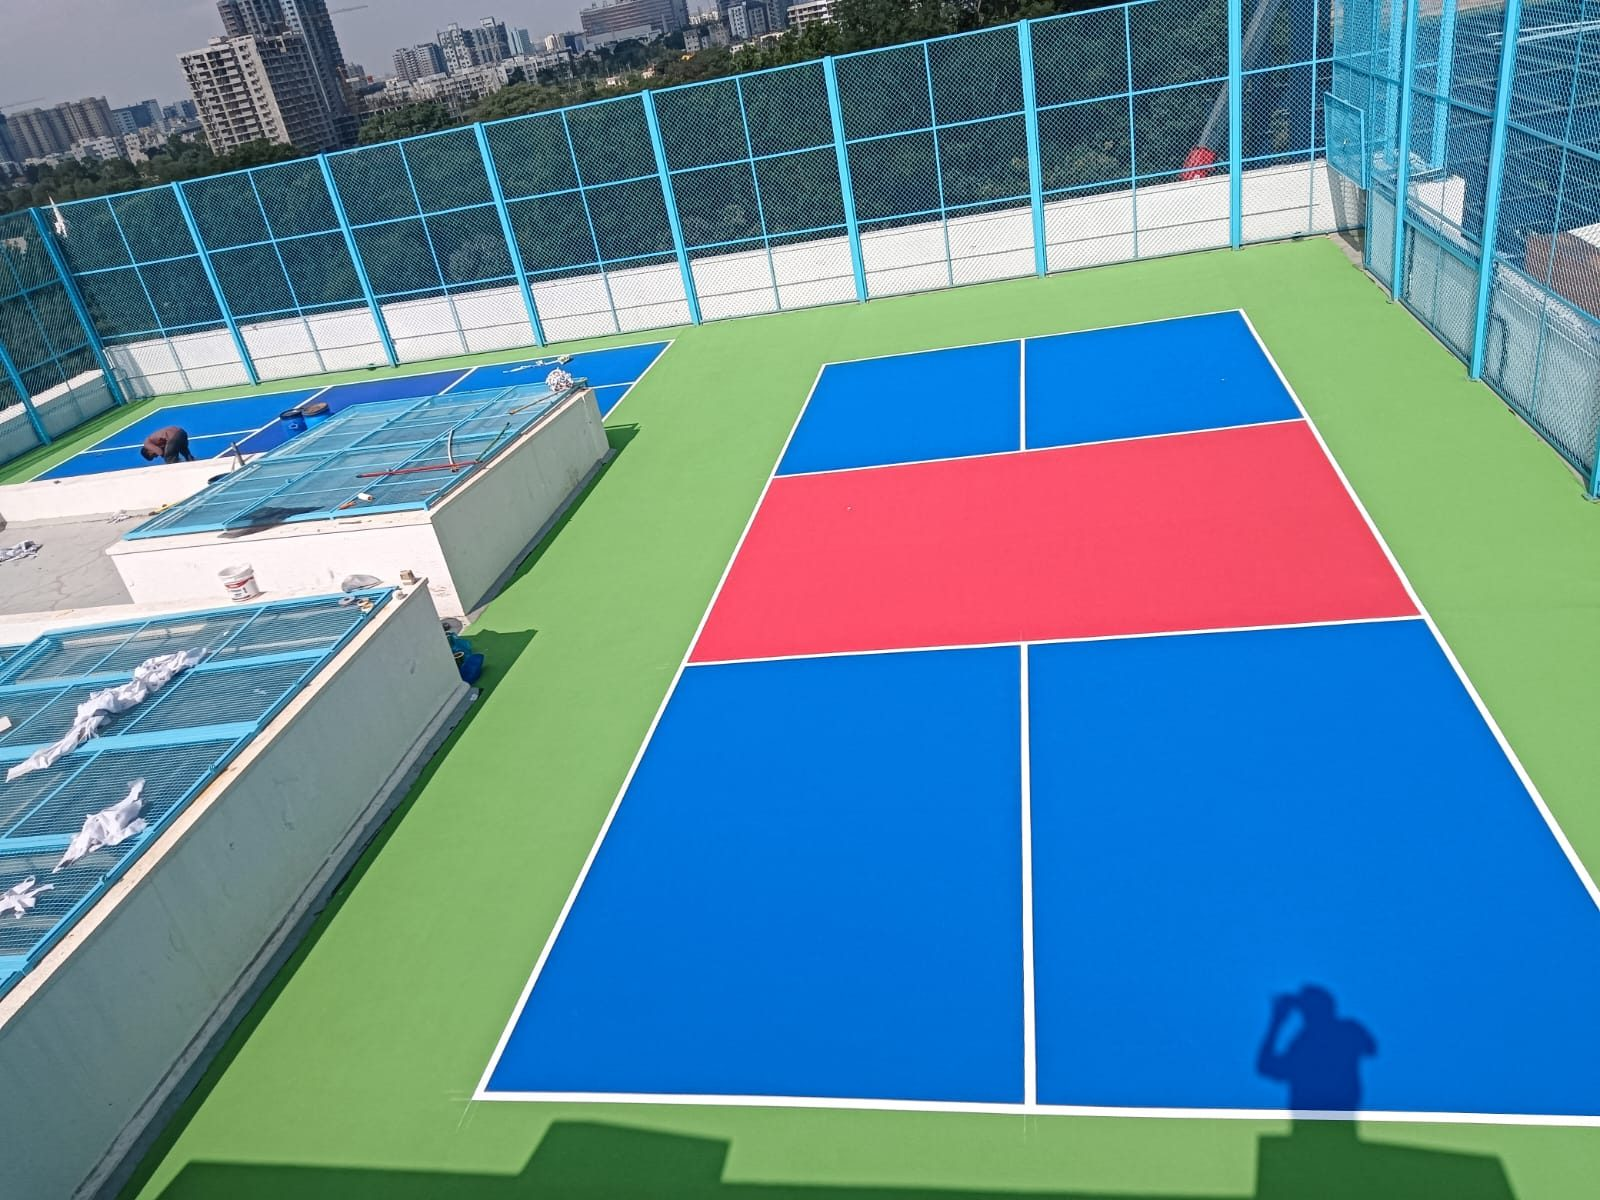
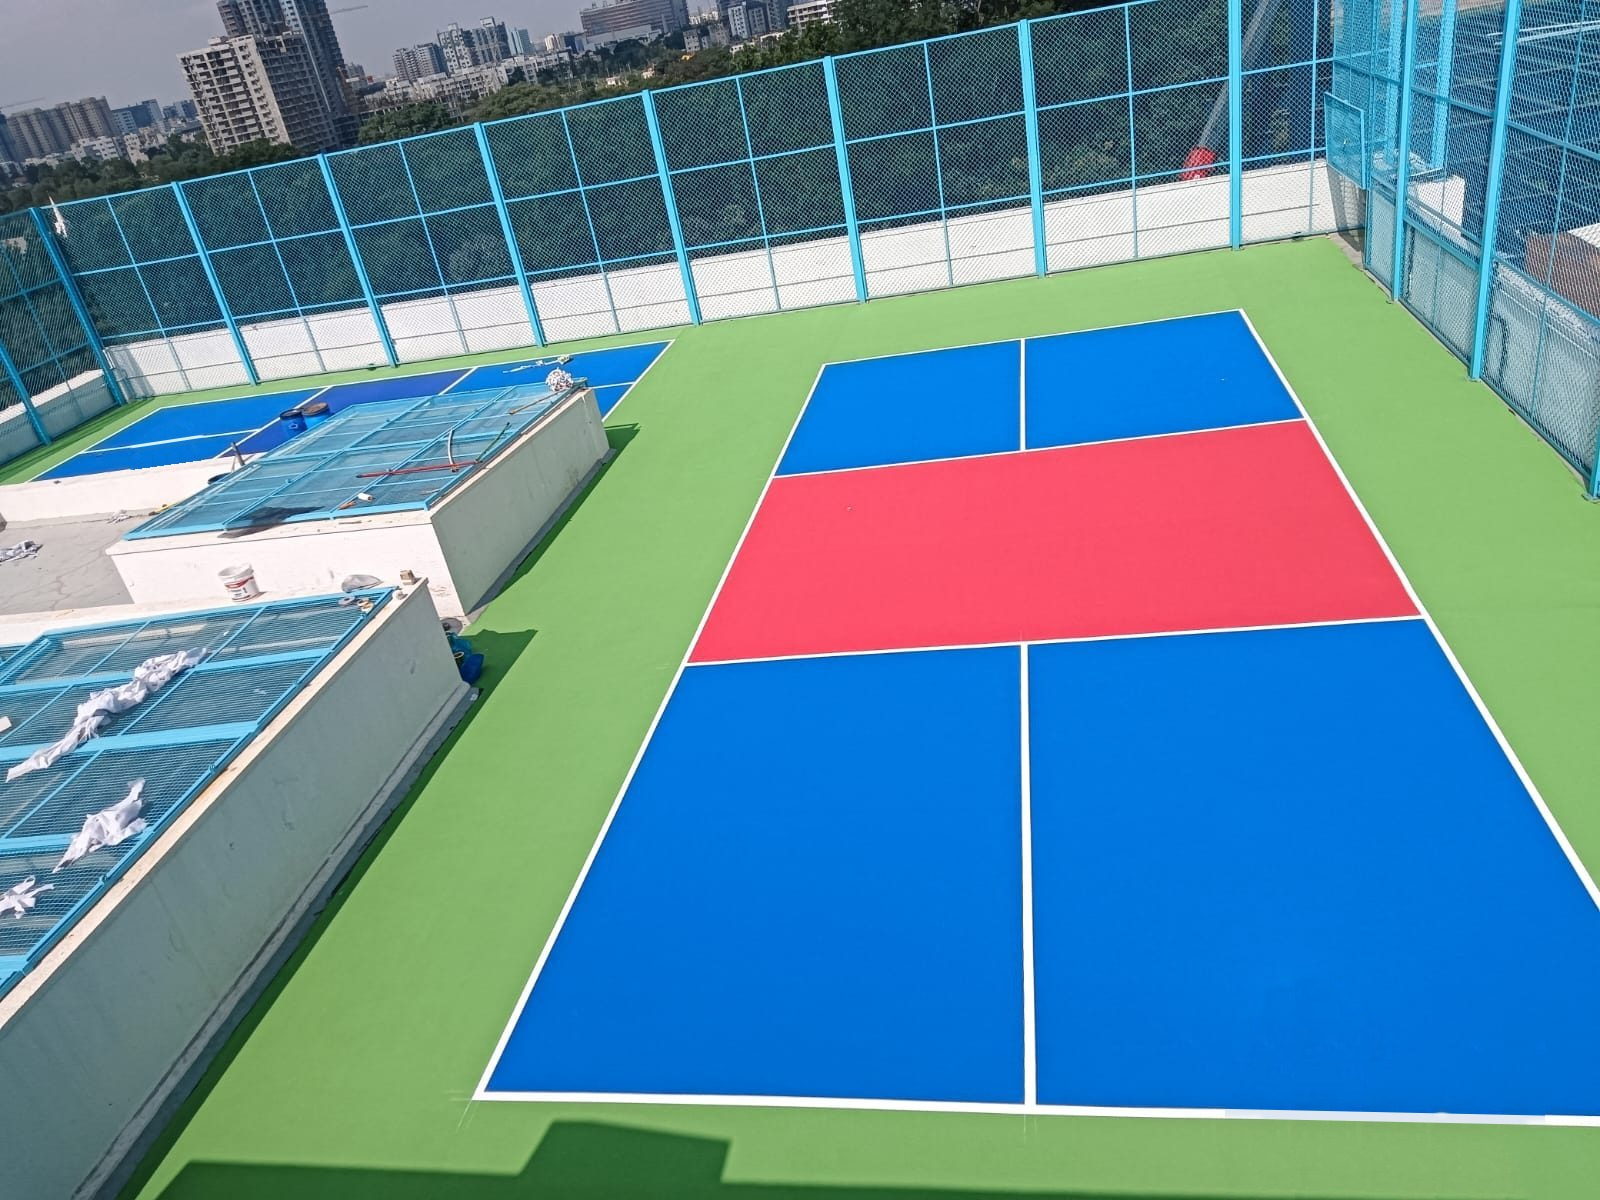
images

Changed region(s): [[0.7812, 0.8017, 0.9688, 1.0], [0.0625, 0.3392, 0.125, 0.4008]]

diff --git a/src/data.js b/src/data.js
@@ -36,7 +36,7 @@ export const surfaces = [
   { name: 'Athletic Synthetic Tracks', tx: 'tx-track', where: 'Outdoor', img: '/img/projects/stadium-track.jpg',
     text: 'Rubber-based running track systems with lane markings, built for steady footing in training and competition.',
     tags: ['Running tracks', 'Schools', 'Stadiums'] },
-  { name: 'Rubber Tile', tx: 'tx-rubber', where: 'Indoor', img: '/img/gym.jpg',
+  { name: 'Rubber Tile', tx: 'tx-rubber', where: 'Indoor', img: '/img/projects/gym-rubber-floor.jpg',
     text: 'Dense interlocking rubber tiles that absorb dropped weights and machine vibration, and protect the slab underneath.',
     tags: ['Gyms', 'Fitness studios', 'Weight rooms'] },
   { name: 'Wooden Flooring', tx: 'tx-wood', where: 'Indoor', img: '/img/projects/squash-court.jpg',
@@ -65,7 +65,7 @@ export const sports = [
     field: 'M3 16a21 13 0 1 0 42 0a21 13 0 1 0-42 0M21 10h6v12h-6zM21 12h6M21 20h6' },
   { name: 'Football', note: 'Artificial turf pitches', img: '/img/projects/football-turf.jpg',
     field: `${box}M24 4v24${ring(24, 16, 4)}M4 10h6v12H4M44 10h-6v12h6M4 13h2v6H4M44 13h-2v6h2` },
-  { name: 'Gym', note: 'Rubber & wooden flooring', img: '/img/gym.jpg',
+  { name: 'Gym', note: 'Rubber & wooden flooring', img: '/img/projects/gym-bikes.jpg',
     field: 'M14 16h20M8 10h4v12H8zM36 10h4v12h-4zM12 12h2v8h-2zM34 12h2v8h-2zM5 14h3v4H5zM40 14h3v4h-3z' },
   { name: 'Hockey', note: 'Synthetic turf fields', img: '/img/projects/football-turf.jpg',
     field: `${box}M24 4v24M14 4v24M34 4v24M4 9a7 7 0 0 1 0 14M44 9a7 7 0 0 0 0 14` },
@@ -77,12 +77,12 @@ export const sports = [
 
 // icon: SVG path data drawn with a 1.6 stroke
 export const services = [
-  { title: 'Turnkey projects', text: 'One team from concept to handover: civil base, surface, fencing, lighting and finishing.', img: '/img/rooftop-night.jpg', size: 'big' },
+  { title: 'Turnkey projects', text: 'One team from concept to handover: civil base, surface, fencing, lighting and finishing.', img: '/img/projects/turnkey-tennis.jpg', size: 'big' },
   { title: 'Consultancy & design', text: 'Site study, layout planning and surface selection before a single bag of material arrives.', icon: 'M4 20V9l8-5 8 5v11M9 20v-6h6v6' },
   { title: 'LED lighting', text: 'Even, glare-controlled floodlighting so play continues well after sunset.', icon: 'M12 3v3M5.6 5.6l2.1 2.1M3 12h3M18.4 5.6l-2.1 2.1M21 12h-3M16 14a4 4 0 1 1-8 0 4 4 0 0 1 8 0Z' },
   { title: 'Chain link fencing', text: 'Galvanised, coated perimeter fencing that keeps the ball in and the court secure.', icon: 'M4 4l16 16M20 4L4 20M4 12h16M12 4v16' },
   { title: 'Structures', text: 'Roofing and covered structures for all-weather courts and spectator areas.', icon: 'M3 20h18M5 20V10l7-6 7 6v10' },
-  { title: 'Steam & sauna', text: 'Recovery rooms for clubs, gyms and residences.', img: '/img/indoor-hall.jpg', size: 'wide' },
+  { title: 'Steam & sauna', text: 'Recovery rooms for clubs, gyms and residences.', img: '/img/projects/campus-basketball.jpg', size: 'wide' },
 ]
 
 export const steps = [
@@ -194,5 +194,5 @@ export const builds = [
   { name: 'Cricket nets', sport: 'Cricket', img: '/img/projects/cricket-nets.jpg', text: 'Turf practice lanes with netting and lighting.' },
   { name: 'Basketball courts', sport: 'Basketball', img: '/img/projects/school-basketball.jpg', text: 'Indoor and outdoor courts, marked to standard.' },
   { name: 'Multi-sport courts', sport: 'Volleyball', img: '/img/projects/multi-court-aerial.jpg', text: 'One surface, several games: volleyball, badminton and basketball.' },
-  { name: 'Gym floors', sport: 'Gym', img: '/img/gym.jpg', text: 'Rubber and wooden flooring that takes heavy, everyday training.' },
+  { name: 'Gym floors', sport: 'Gym', img: '/img/projects/gym-cardio.jpg', text: 'Rubber and wooden flooring that takes heavy, everyday training.' },
 ]

diff --git a/src/components/Values.jsx b/src/components/Values.jsx
@@ -17,13 +17,13 @@ export default function Values() {
   })
 
   return (
-    <section id="values" ref={section} className="relative m-1.5 overflow-hidden rounded-panel pt-[clamp(140px,22vw,300px)] pb-[clamp(40px,5vw,60px)] md:m-2.5">
-      <div ref={bg} className="absolute inset-x-0 -inset-y-[15%] bg-[url(/img/projects/rooftop-pickleball.jpg)] bg-cover bg-center will-change-transform" />
+    <section id="values" ref={section} className="relative m-1.5 overflow-hidden rounded-panel pt-[clamp(220px,30vw,400px)] pb-[clamp(24px,3vw,40px)] md:m-2.5">
+      <div ref={bg} className="absolute inset-x-0 -inset-y-[15%] bg-[url(/img/projects/gym-rubber-floor.jpg)] bg-cover bg-center will-change-transform" />
       <Wrap className="relative grid gap-4 md:grid-cols-3">
         {values.map((v, i) => (
-          <Reveal key={v.title} delay={i * 0.1} className="glass rounded-card p-7">
-            <h3 className="mb-2 text-[17px] font-medium">{v.title}</h3>
-            <p className="text-[15px] text-[#2b2f35]">{v.text}</p>
+          <Reveal key={v.title} delay={i * 0.1} className="glass rounded-2xl px-5 py-4">
+            <h3 className="mb-1 text-base font-medium">{v.title}</h3>
+            <p className="text-sm leading-snug text-[#2b2f35]">{v.text}</p>
           </Reveal>
         ))}
       </Wrap>

diff --git a/src/components/SportPage.jsx b/src/components/SportPage.jsx
@@ -36,6 +36,14 @@ export default function SportPage() {
       {/* hero */}
       <section className="h-[82svh] min-h-[560px] p-1.5 md:p-2.5">
         <div className="relative h-full overflow-hidden rounded-[26px] bg-[#2f8f7a] md:rounded-panel">
+          {/* pos picks which part of the photo the crop keeps; shade sets how dark the overlay is */}
+          <img key={slug} src={page.img} alt={`${page.title} built by Equinox`}
+            className="absolute inset-0 size-full animate-hero-zoom object-cover"
+            style={{ objectPosition: page.pos ?? '50% 50%' }} />
+          {/* dark overlay so the white text stays readable over any photo */}
+          <div className="absolute inset-0 bg-black" style={{ opacity: page.shade ?? 0.3 }} />
+          <div className="absolute inset-0 bg-gradient-to-r from-black/60 to-transparent to-60%" />
+          <div className="absolute inset-0 bg-gradient-to-t from-black/50 via-transparent to-black/20" />
 
           <nav aria-label="Breadcrumb" className="glass-dark absolute top-[76px] left-1/2 flex h-9 -translate-x-1/2 items-center gap-2 rounded-full px-4 text-[13px] whitespace-nowrap md:top-[84px]">
             <Link to="/" className="text-white/70 hover:text-white">Home</Link>

diff --git a/src/components/Hero.jsx b/src/components/Hero.jsx
@@ -121,6 +121,20 @@ export default function Hero() {
   return (
     <section className="h-svh min-h-[600px] p-1.5 md:min-h-[640px] md:p-2.5">
       <div ref={frame} className="relative h-full origin-top overflow-hidden rounded-[26px] bg-[#2f8f7a] will-change-transform md:rounded-panel">
+        <img
+          src="/img/projects/football-turf.jpg"
+          alt="Synthetic grass football turf built by Equinox"
+          className="absolute inset-0 size-full animate-hero-zoom object-cover object-[50%_60%]"
+        />
+        {/* light shading only where the text sits, so the turf stays clear */}
+        <div
+          className="absolute inset-0"
+          style={{
+            background:
+              'linear-gradient(90deg, rgb(10 12 16 / .45) 0%, transparent 55%), linear-gradient(180deg, rgb(10 12 16 / .2) 0%, transparent 25%, transparent 50%, rgb(10 12 16 / .65) 100%)',
+          }}
+        />
+
         <Island />
 
         <div className="absolute bottom-[clamp(28px,6vw,64px)] left-[clamp(20px,5vw,64px)] max-w-[680px] pr-5 text-white">

diff --git a/src/sportPages.js b/src/sportPages.js
@@ -91,6 +91,8 @@ export const sportPages = [
     sport: 'Cricket',
     title: 'Cricket wickets & outfield',
     img: '/img/projects/cricket-nets.jpg',
+    pos: '50% 66%',
+    shade: 0.15,
     lead: 'Wickets and outfields for amateur and professional cricket, indoors and out.',
     intro:
       'Our wickets give a consistent, even playing surface with good bounce and turn, and our outfield turf lets the ball race to the boundary while fielders dive without risk of injury. Run-up and roll-out wickets are available for practice and multi-use spaces.',
@@ -144,7 +146,7 @@ export const sportPages = [
     slug: 'gym',
     sport: 'Gym',
     title: 'Gym flooring',
-    img: '/img/sports/gym.jpg',
+    img: '/img/projects/gym-cardio.jpg',
     lead: 'Turf and rubber flooring for high-energy training zones.',
     intro:
       'We supply synthetic turf for sled and resistance-training lanes and rubber tiles for weight areas. Sweat does not soak into the surface, and the turf is certified to indoor fire-rating standards.',

diff --git a/src/components/Services.jsx b/src/components/Services.jsx
@@ -11,9 +11,9 @@ function Tile({ title, text, icon, img, size }) {
     return (
       <Reveal className={`group relative flex min-h-[250px] flex-col justify-end overflow-hidden rounded-card p-3.5 shadow-soft transition duration-500 ease-ios hover:-translate-y-1 hover:shadow-lift ${span[size] ?? ''}`}>
         <img src={img} alt="" loading="lazy" className="absolute inset-0 size-full object-cover transition-transform duration-[1200ms] ease-ios group-hover:scale-[1.06]" />
-        <div className="glass relative rounded-2xl p-5">
-          <h3 className="mb-1.5 text-[17px] font-medium">{title}</h3>
-          <p className="text-[15px] text-[#2b2f35]">{text}</p>
+        <div className="glass relative max-w-[400px] rounded-2xl px-4 py-3.5">
+          <h3 className="mb-1 text-base font-medium">{title}</h3>
+          <p className="text-sm leading-snug text-[#2b2f35]">{text}</p>
         </div>
       </Reveal>
     )
